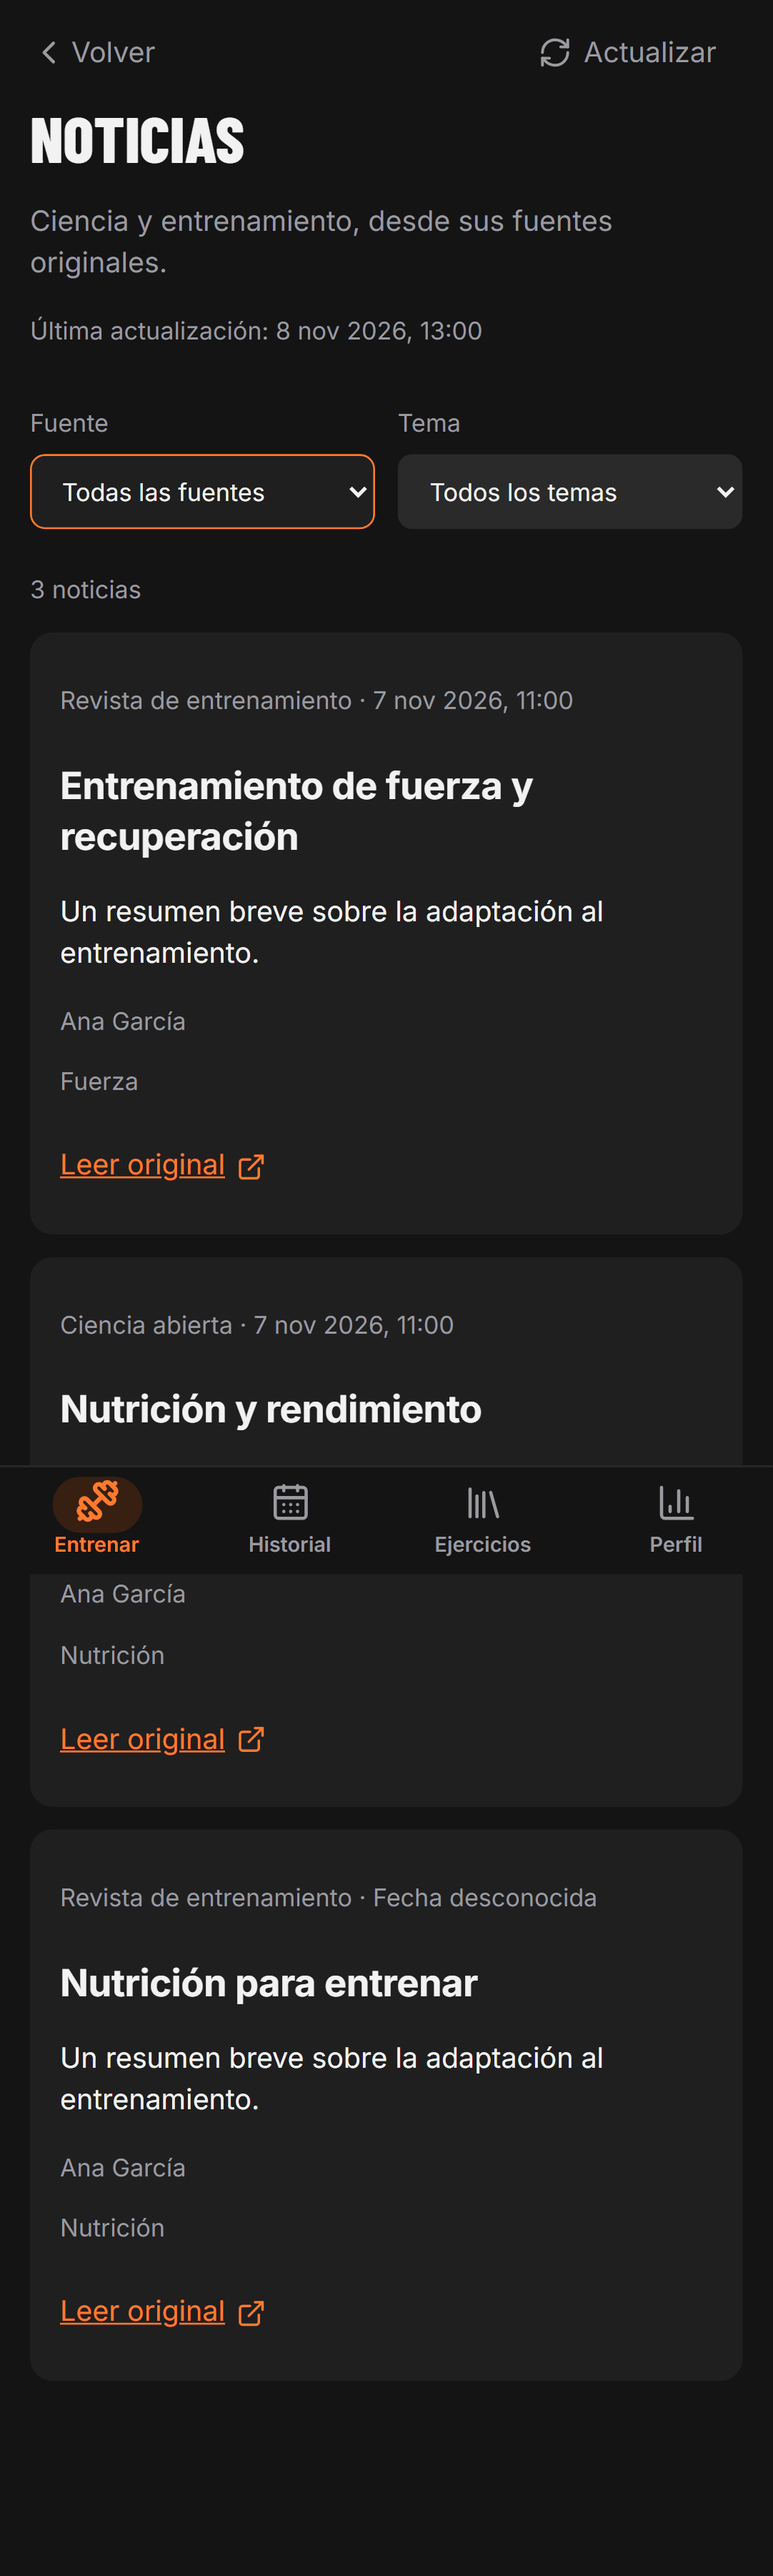
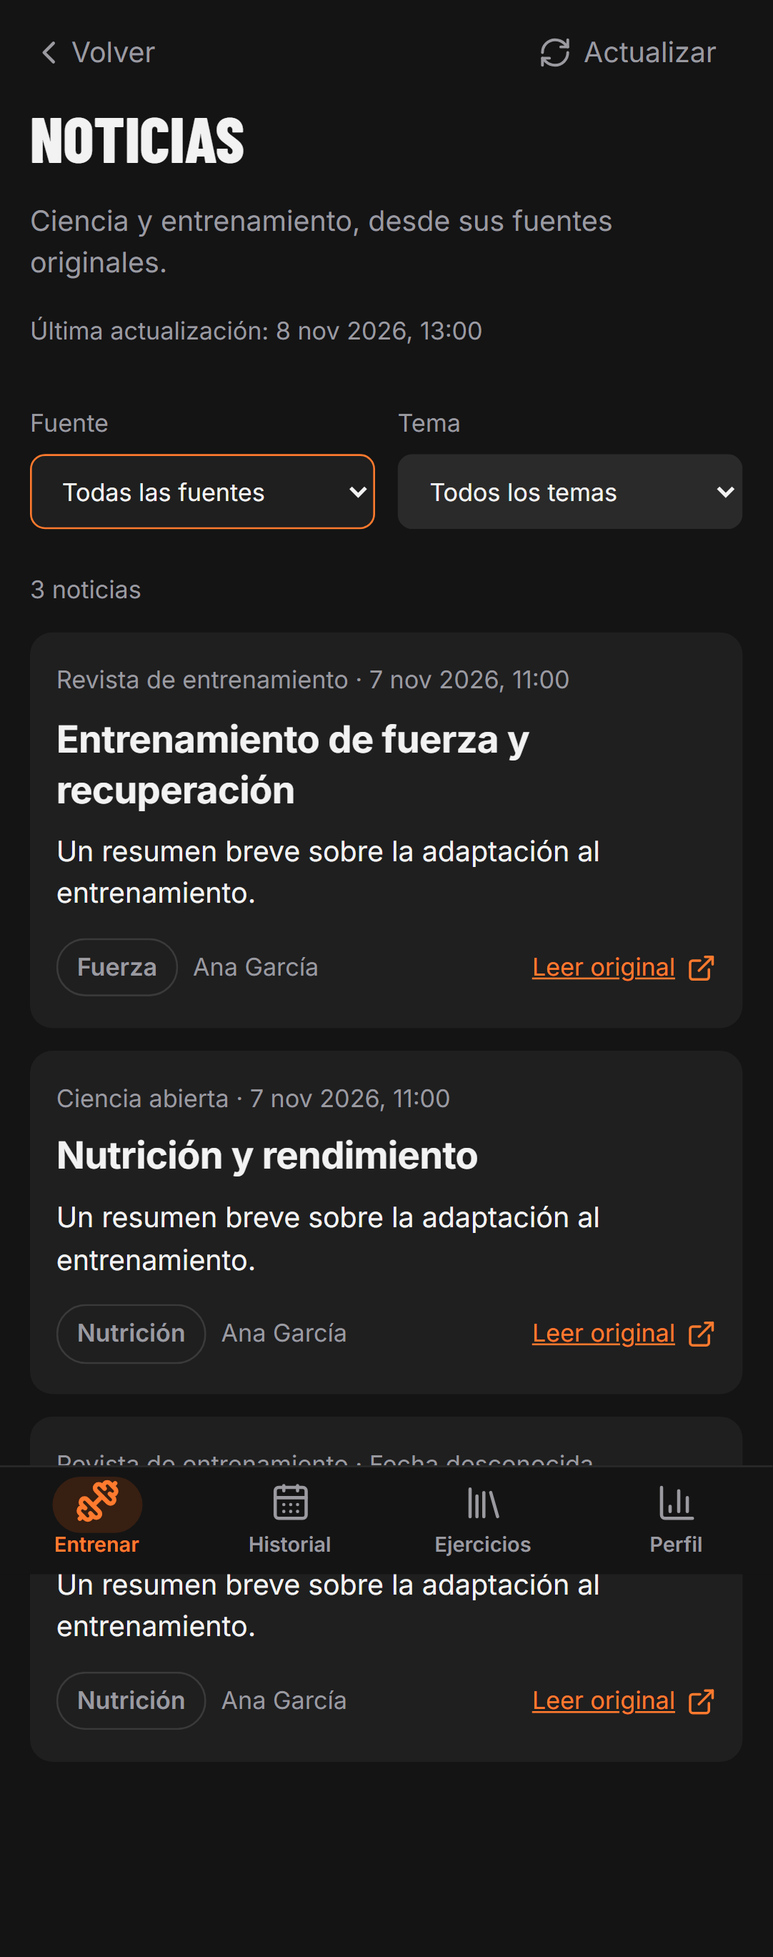
Compacta las tarjetas de noticias y reúne sus metadatos

diff --git a/app/src/components/News.tsx b/app/src/components/News.tsx
@@ -146,12 +146,22 @@ export default function News({ onBack }: { onBack: () => void }) {
             </p>
             <h2>{a.title}</h2>
             {a.shortSummary && <p>{a.shortSummary}</p>}
-            {!!a.authors?.length && <p className="small muted">{a.authors.join(', ')}</p>}
-            <p className="small muted">{a.topics.map((t) => NEWS_TOPICS[t]).join(' · ')}</p>
-            <a className="icon-btn" href={a.url} target="_blank" rel="noopener noreferrer">
-              Leer original<span className="sr-only">: {a.title} (abre en otra pestaña)</span>
-              <ExternalLink size={16} aria-hidden />
-            </a>
+            <div className="news-footer">
+              <ul className="exinfo-chips" aria-label="Temas">
+                {a.topics.map((t) => (
+                  <li key={t}>{NEWS_TOPICS[t]}</li>
+                ))}
+              </ul>
+              {!!a.authors?.length && (
+                <span className="news-authors muted small" title={a.authors.join(', ')}>
+                  {a.authors.join(', ')}
+                </span>
+              )}
+              <a className="icon-btn small" href={a.url} target="_blank" rel="noopener noreferrer">
+                Leer original<span className="sr-only">: {a.title} (abre en otra pestaña)</span>
+                <ExternalLink size={16} aria-hidden />
+              </a>
+            </div>
           </article>
         ))}
       </div>

diff --git a/app/src/components/News.css b/app/src/components/News.css
@@ -17,13 +17,42 @@
 }
 .news-list .card {
   margin: 0;
+  padding: 10px 14px;
   overflow-wrap: anywhere;
+}
+.news-list .card > p {
+  margin: 6px 0;
 }
 .news-list h2 {
   font-size: 1.25rem;
   line-height: 1.35;
+  margin: 8px 0;
 }
-.news-list a {
+.news-footer {
+  display: flex;
+  align-items: center;
+  gap: 8px;
+}
+.news-footer .exinfo-chips {
+  margin: 0;
+  flex-wrap: nowrap;
+  min-width: 0;
+  max-width: 40%;
+  overflow-x: auto;
+}
+.news-footer .exinfo-chips li {
+  flex-shrink: 0;
+}
+.news-authors {
+  min-width: 0;
+  overflow: hidden;
+  text-overflow: ellipsis;
+  white-space: nowrap;
+}
+.news-footer a {
+  margin-left: auto;
+  flex-shrink: 0;
   width: fit-content;
   min-height: 44px;
+  white-space: nowrap;
 }

diff --git a/docs/issue-61/README.md b/docs/issue-61/README.md
@@ -13,6 +13,10 @@ Versión 1.16.0. Acceso desde la cabecera de Entrenar, sin añadir pestañas. Se
 
 Los fixtures de artículos del checkout Windows tenían CRLF y sus tests hacen sustituciones literales con LF. Se normalizaron localmente para ejecutar check; no hay cambios de contenido editorial en el commit. El build generado de MCP no presenta diferencias de contenido.
 
+## Revisi?n visual del PR #111
+
+Tarjetas compactas: fuente y fecha, titular, resumen y una ?nica fila final con chips de tema del estilo `exinfo-chips`, autores en texto secundario y enlace a la derecha. Se reducen m?rgenes y padding vertical; los autores largos se abrevian visualmente con el nombre completo en el tooltip. Capturas de Noticias regeneradas en claro y oscuro.
+
 ## Capturas
 
 | Estado | Claro | Oscuro |
